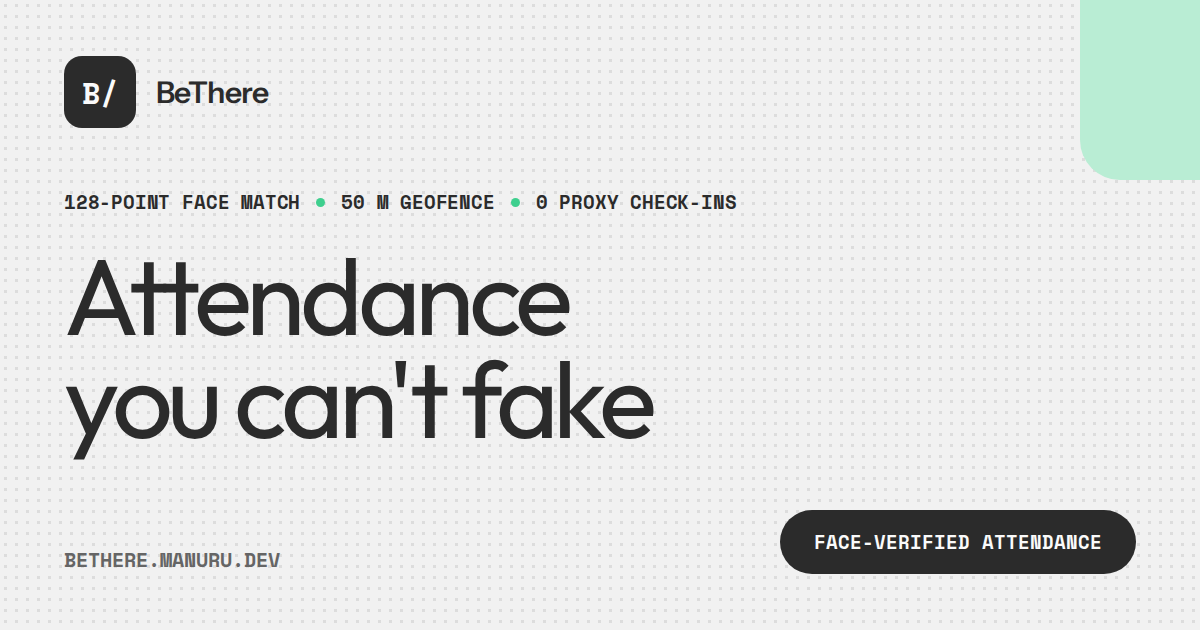
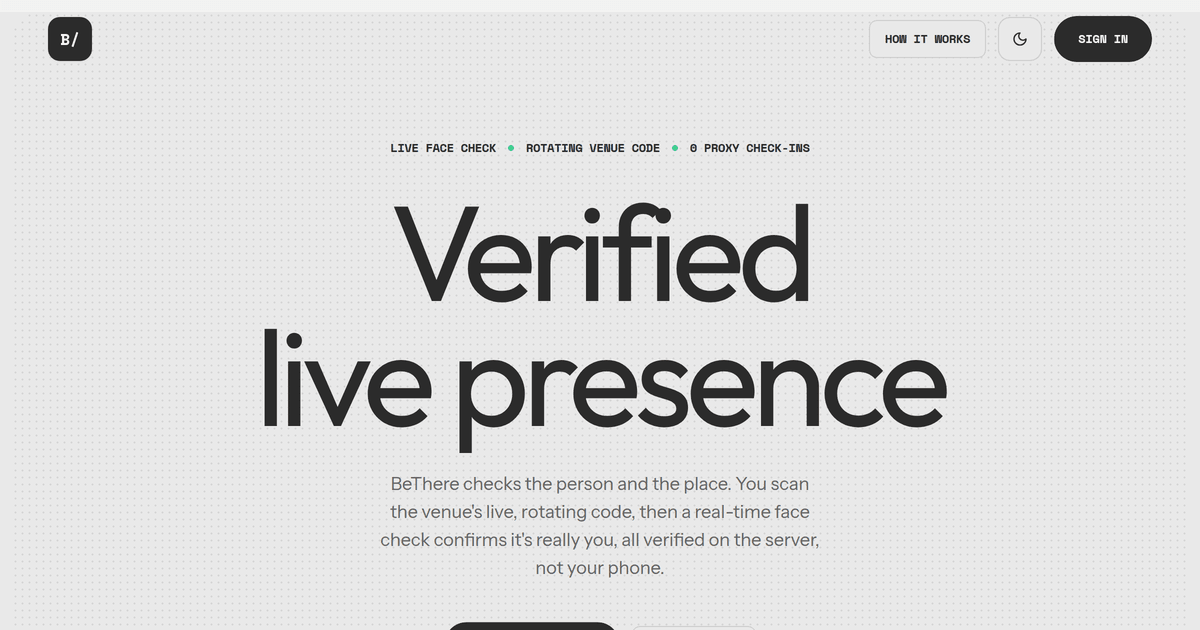
use a static hero screenshot for the OG image
The dynamic /api/og function never served in production (Vercel returned
NOT_FOUND, then fetches timed out), so social scrapers reported an invalid
image. Replace it with a static 1200x630 screenshot of the landing hero
(public/og.png, ~38KB palette PNG) served as a plain asset, and drop the
api/og function entirely.

Also split the two descriptions that shared one 127-char string: the SEO
meta description is now 157 chars (in the 120-160 range) and the
og/twitter descriptions are 118 chars (under the ~125 social limit), and
tidy the now-stale favicon comment.

diff --git a/index.html b/index.html
@@ -27,15 +27,13 @@
     <title>BeThere - Attendance you can't fake</title>
     <meta
       name="description"
-      content="Verified live presence: scan the venue's live code, then a real-time face check confirms it's you - all verified on the server."
+      content="BeThere verifies live presence for events: scan the venue's rotating on-site code, then a real-time face check confirms it's you, all verified on the server."
     />
     <meta name="author" content="Nurudeen Abdul-Majeed" />
     <meta name="theme-color" content="#f1f1f1" />
     <link rel="canonical" href="https://bethere.manuru.dev/" />
 
-    <!-- Favicon: scalable SVG (universally supported by current browsers). The
-         1.27 MB logo.png was previously served here as a PNG icon fallback and
-         was far too heavy for that purpose. -->
+    <!-- Favicon: scalable SVG (universally supported by current browsers). -->
     <link rel="icon" type="image/svg+xml" href="/favicon.svg" />
 
     <!-- Fonts: Outfit (display), Instrument Sans (body), Space Mono (labels) -->
@@ -53,12 +51,15 @@
     <meta property="og:title" content="BeThere - Attendance you can't fake" />
     <meta
       property="og:description"
-      content="Verified live presence: scan the venue's live code, then a real-time face check confirms it's you - all verified on the server."
+      content="Scan the venue's live rotating code, then a real-time face check confirms it's you. Attendance verified on the server."
     />
-    <!-- Code-generated OG image (Vercel Edge Function at api/og.jsx). -->
-    <meta property="og:image" content="https://bethere.manuru.dev/api/og" />
+    <!-- Static OG image: a 1200x630 screenshot of the landing hero
+         (public/og.png), served as a plain static asset. -->
+    <meta property="og:image" content="https://bethere.manuru.dev/og.png" />
+    <meta property="og:image:type" content="image/png" />
     <meta property="og:image:width" content="1200" />
     <meta property="og:image:height" content="630" />
+    <meta property="og:image:alt" content="BeThere - Verified live presence" />
 
     <!-- Twitter -->
     <meta name="twitter:card" content="summary_large_image" />
@@ -66,9 +67,9 @@
     <meta name="twitter:title" content="BeThere - Attendance you can't fake" />
     <meta
       name="twitter:description"
-      content="Verified live presence: scan the venue's live code, then a real-time face check confirms it's you - all verified on the server."
+      content="Scan the venue's live rotating code, then a real-time face check confirms it's you. Attendance verified on the server."
     />
-    <meta name="twitter:image" content="https://bethere.manuru.dev/api/og" />
+    <meta name="twitter:image" content="https://bethere.manuru.dev/og.png" />
 
     <!-- Structured data -->
     <script type="application/ld+json">
@@ -77,7 +78,7 @@
         "@type": "WebApplication",
         "name": "BeThere",
         "url": "https://bethere.manuru.dev/",
-        "description": "Verified live presence: scan the venue's live code, then a real-time face check confirms it's you, all verified on the server.",
+        "description": "BeThere verifies live presence for events: scan the venue's rotating on-site code, then a real-time face check confirms it's you, all verified on the server.",
         "applicationCategory": "BusinessApplication",
         "operatingSystem": "Web",
         "author": {

diff --git a/src/lib/site.js b/src/lib/site.js
@@ -4,9 +4,10 @@
 // that needs the canonical URL, title, description, etc. reads from here.
 //
 // index.html is static HTML and cannot import this module, so it hardcodes
-// the same strings with a comment pointing back here. The OG image endpoint
-// (api/og.jsx) and the SEO generator (scripts/generate-seo.mjs) live outside
-// the Vite graph and likewise mirror these values.
+// the same strings with a comment pointing back here. The OG image is a
+// static screenshot of the landing hero (public/og.png); the SEO generator
+// (scripts/generate-seo.mjs) lives outside the Vite graph and mirrors these
+// values.
 
 // Production fallback used when VITE_SITE_URL is not set. Trailing slashes
 // are stripped so callers can safely do `${siteUrl}/path`.
@@ -19,7 +20,7 @@ export const siteConfig = {
   name: "BeThere",
   title: "BeThere - Attendance you can't fake",
   description:
-    "Verified live presence: scan the venue's live code, then a real-time face check confirms it's you - all verified on the server.",
+    "BeThere verifies live presence for events: scan the venue's rotating on-site code, then a real-time face check confirms it's you, all verified on the server.",
   author: "Nurudeen Abdul-Majeed",
   themeColor: "#f1f1f1",
   backgroundColor: "#f1f1f1",